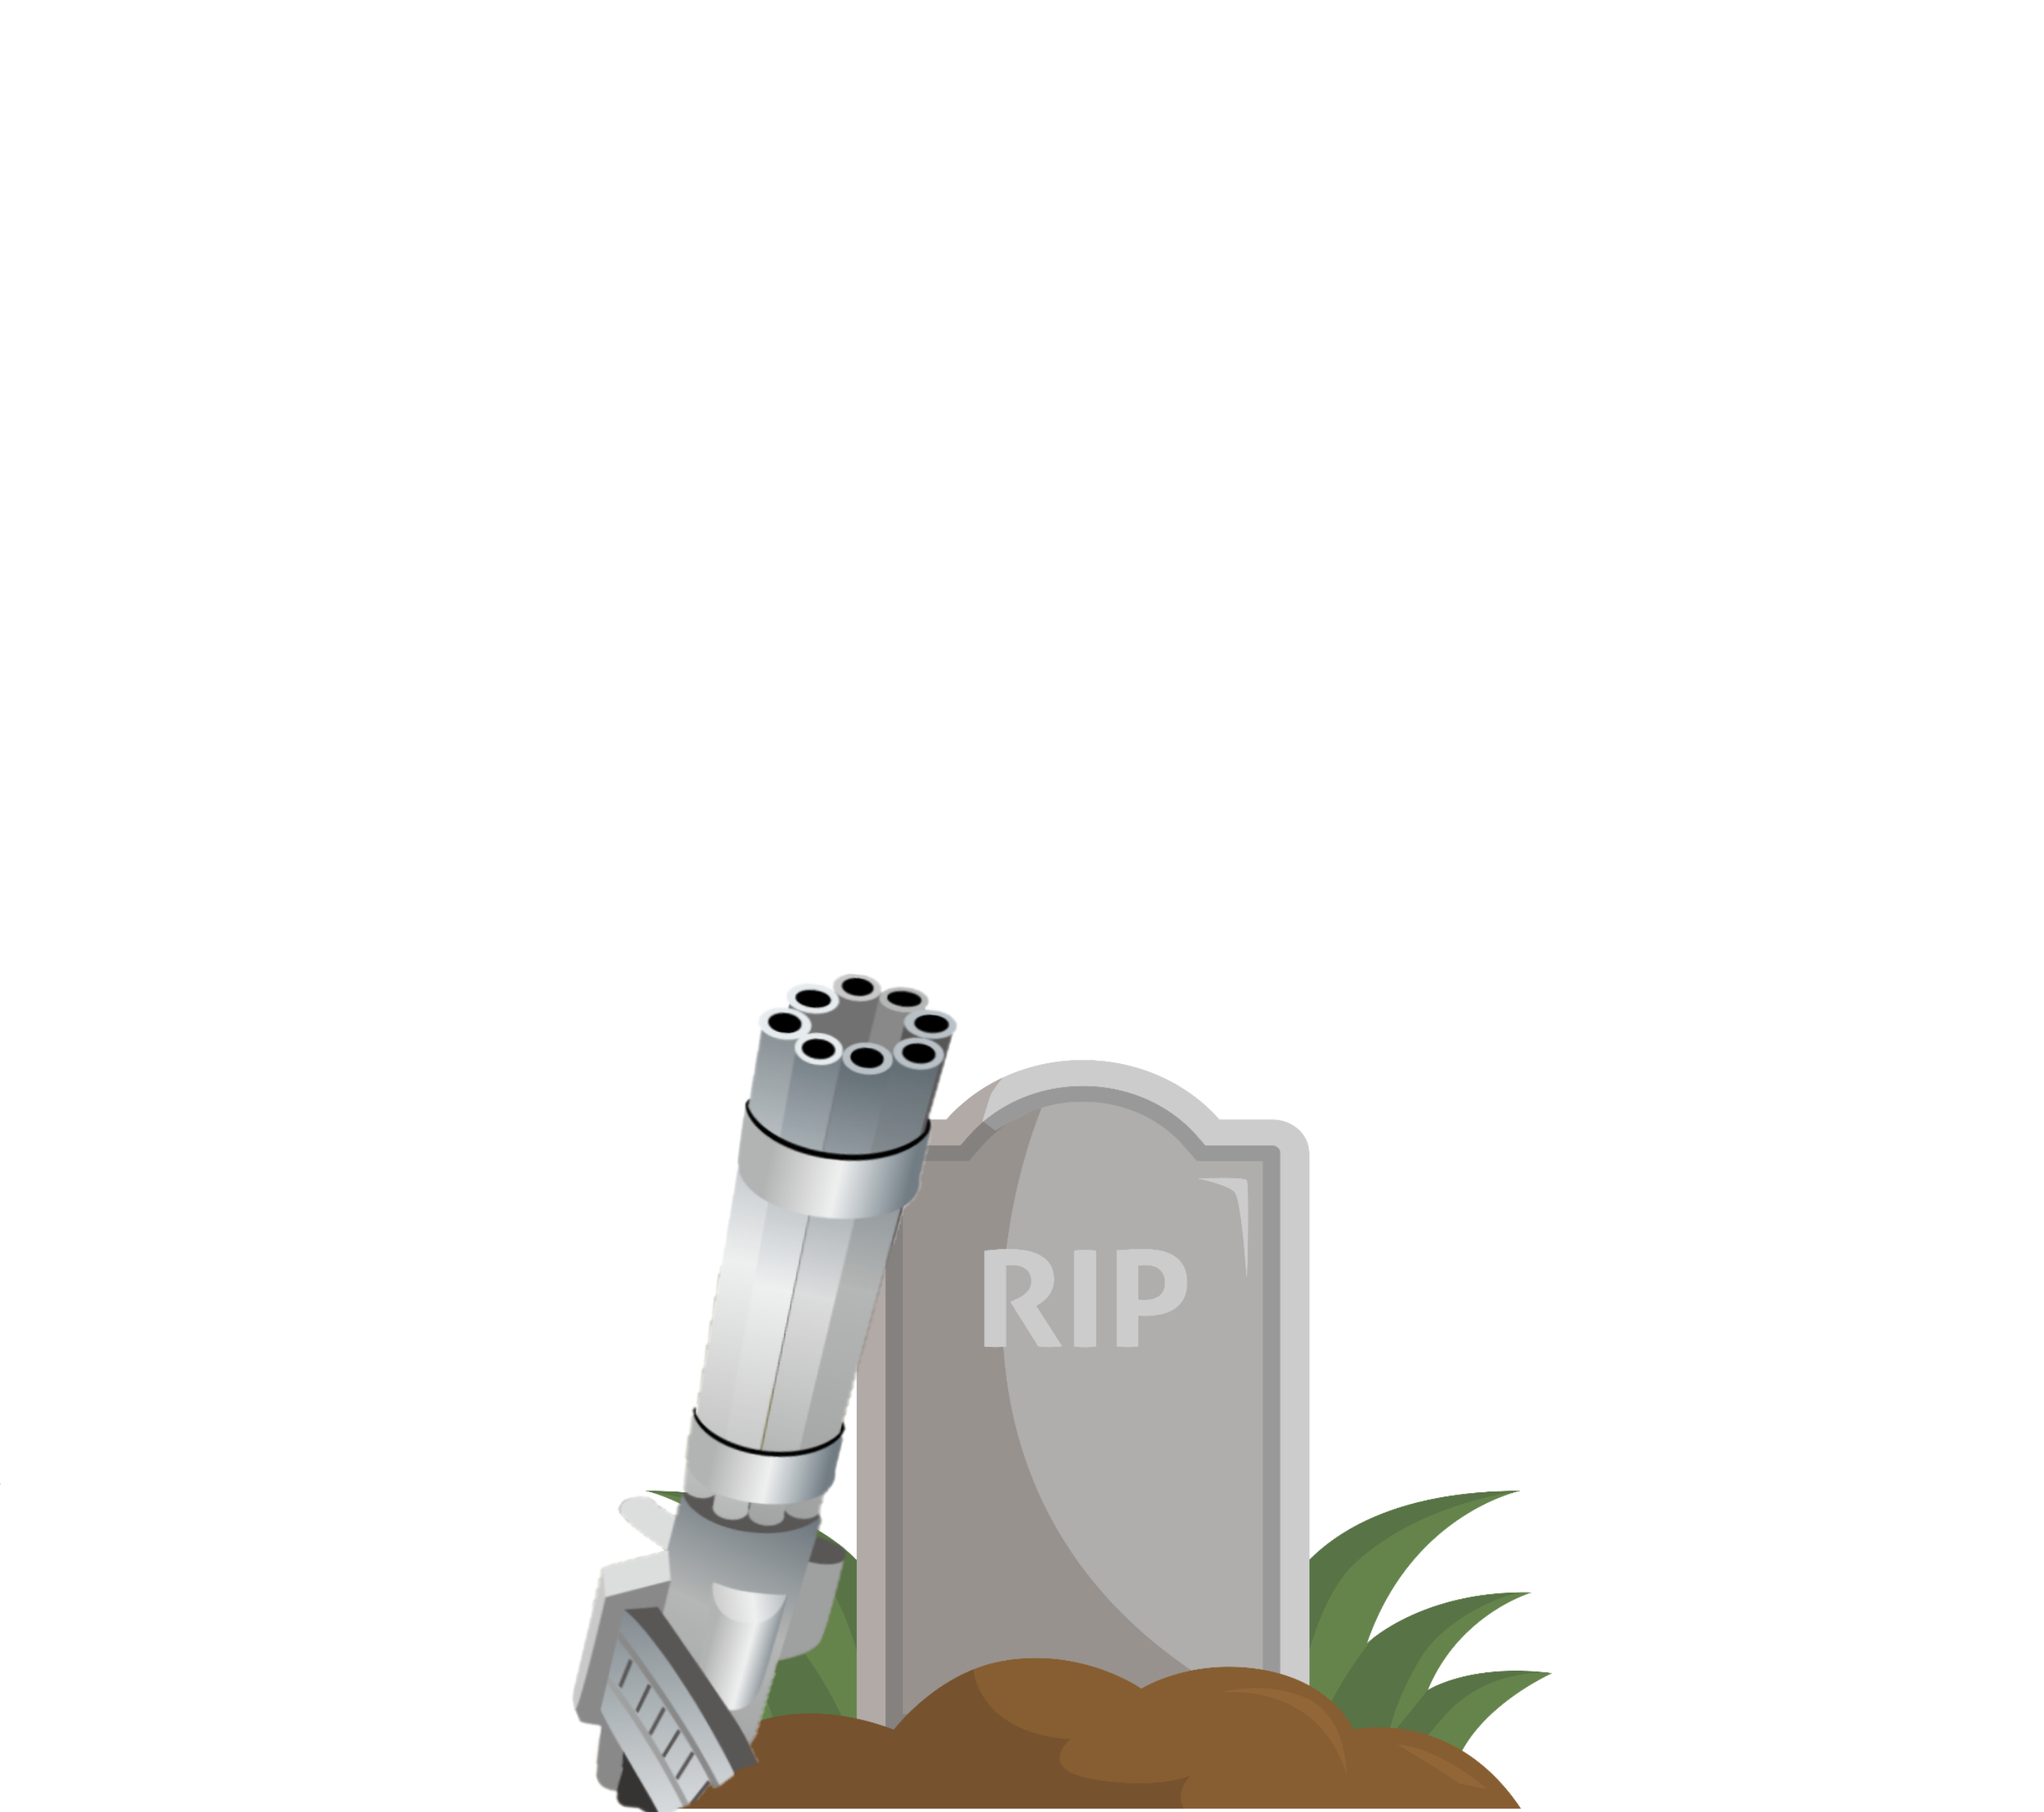
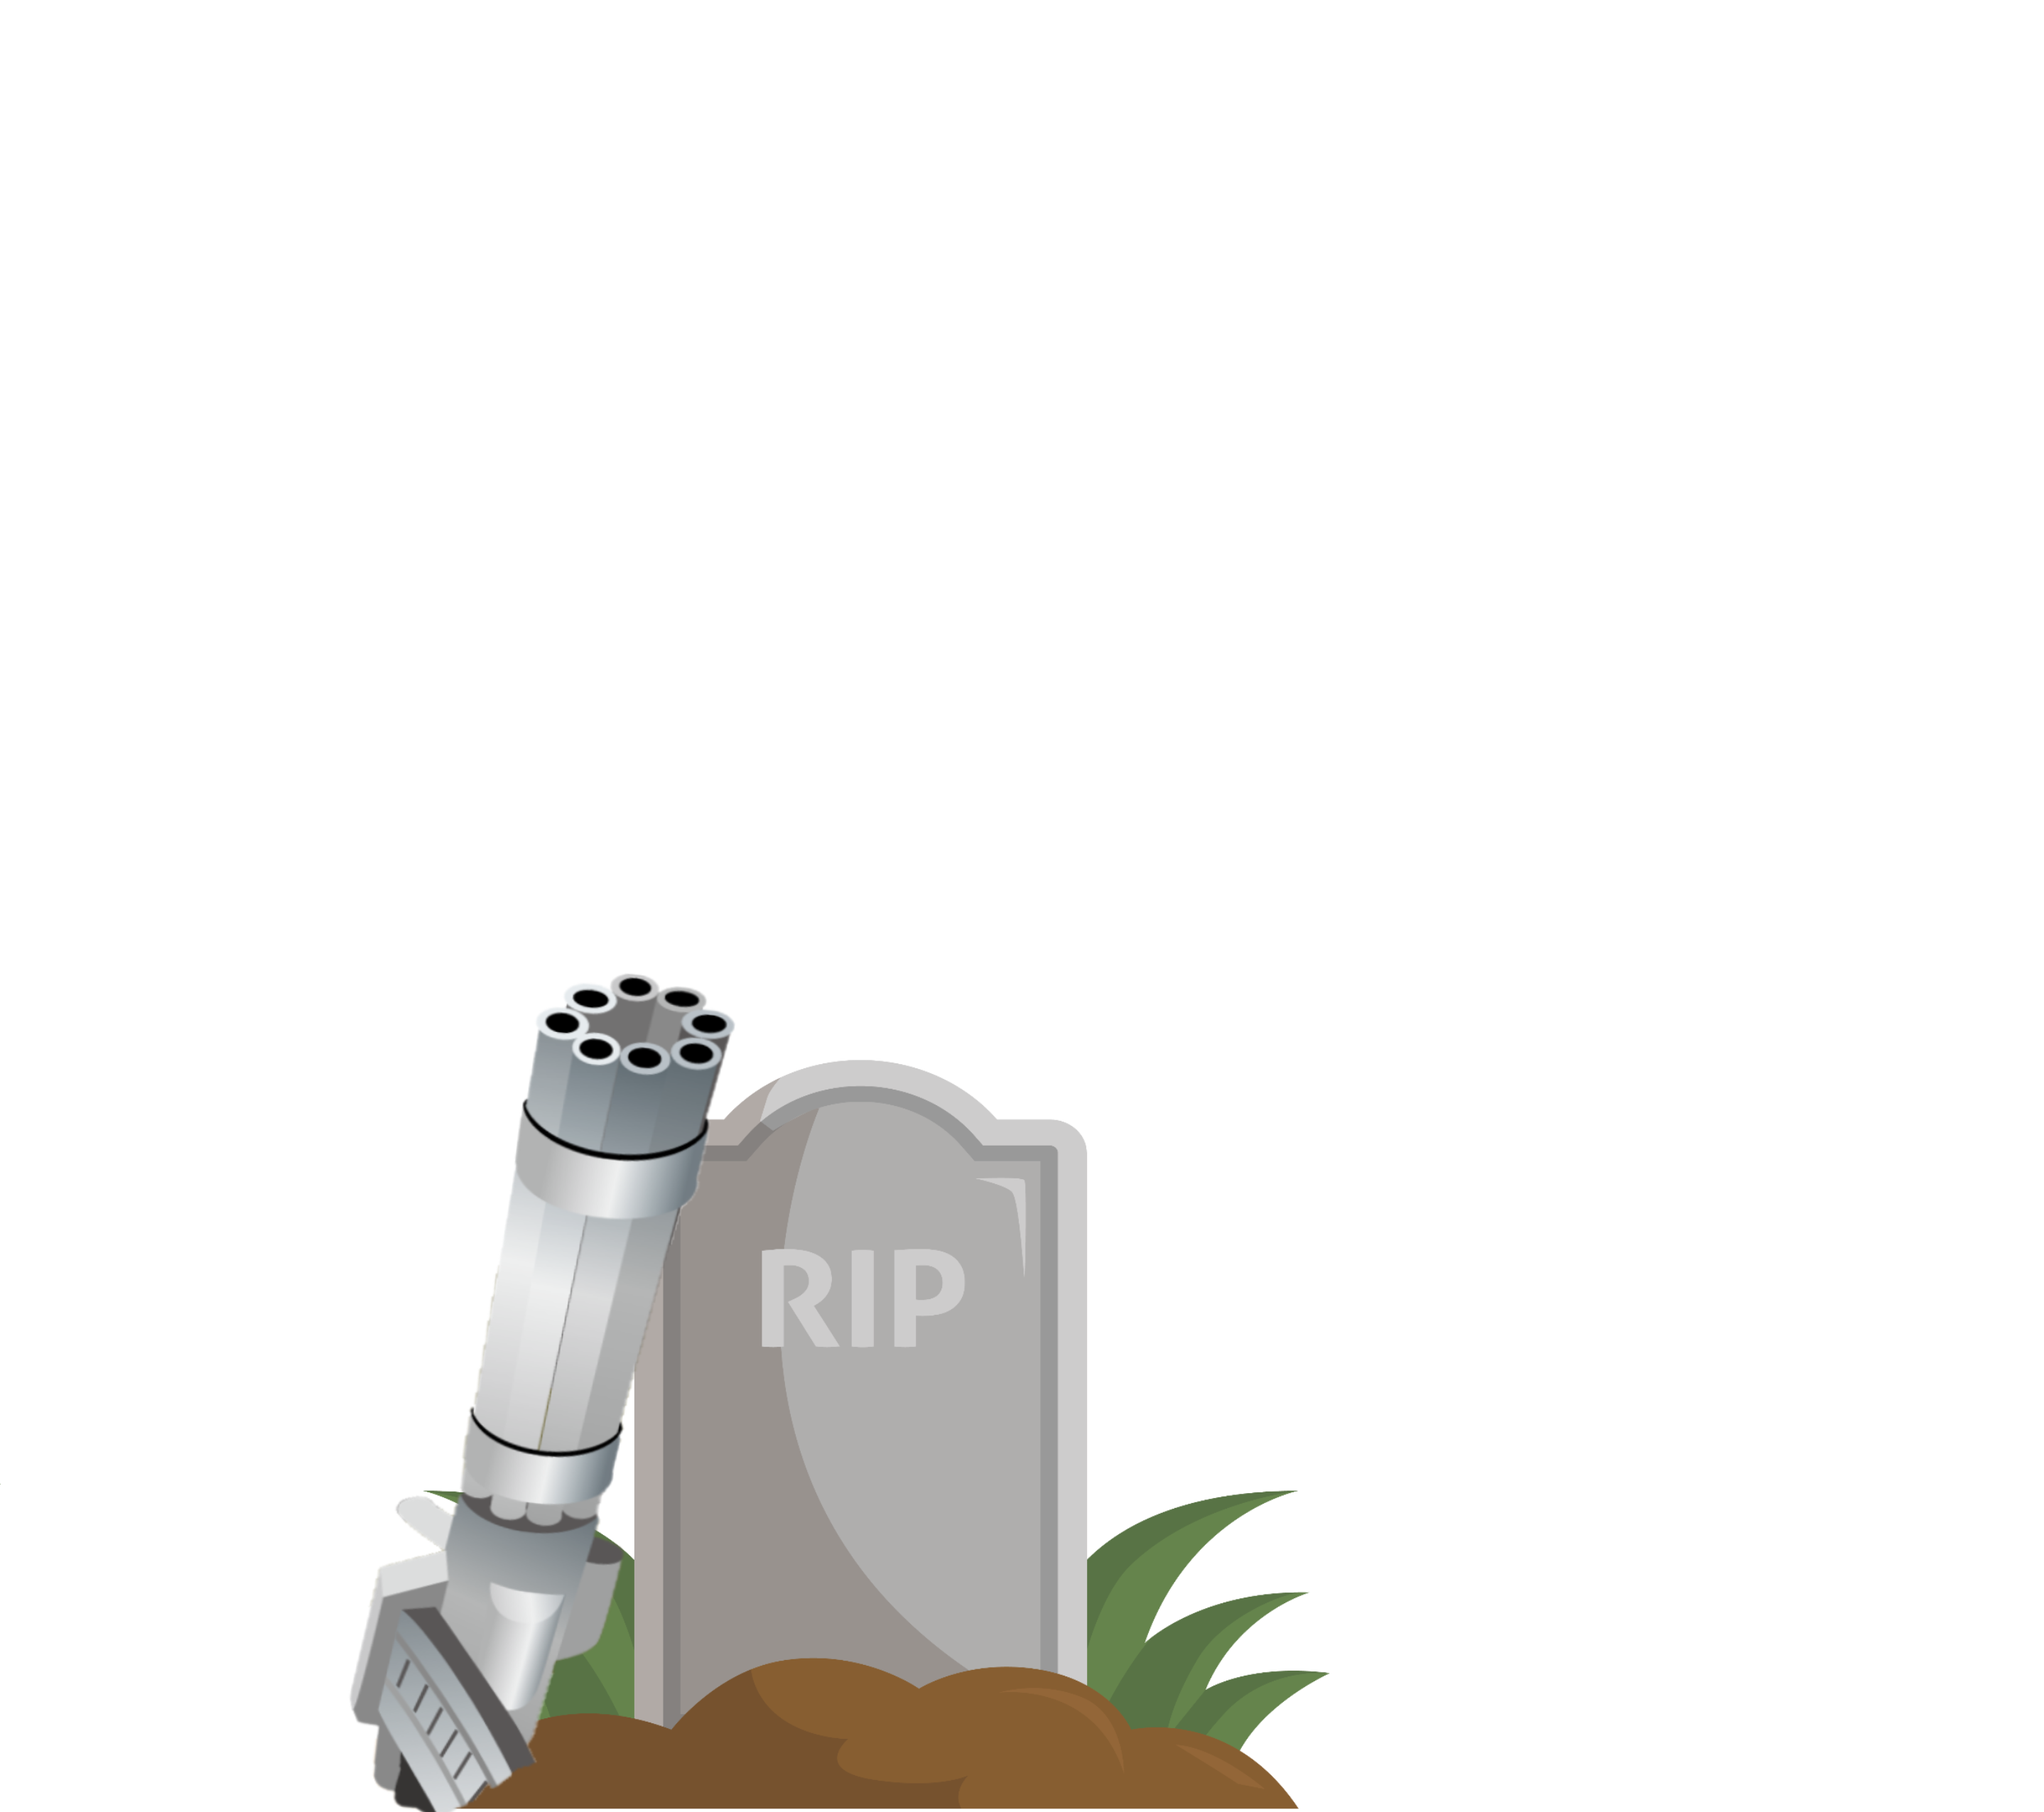
i have changed the background on the minigame page and i made it so it changes depending on your level

Changed region(s): [[0.1547, 0.5265, 0.7424, 1.0]]

diff --git a/javascript/game.js b/javascript/game.js
@@ -117,50 +117,62 @@ function checklvl() {
     if (player.level >= 25 && player.level < 50) {
         document.getElementById("rifle").innerHTML = "Rifle: Type-88";
         document.getElementById("rank").innerHTML = "Rank: Marksman";
+        background.src = "img/background2.png";
     }
     if (player.level >= 50 && player.level < 75) {
         document.getElementById("rifle").innerHTML = "Rifle: Fall";
         document.getElementById("rank").innerHTML = "Rank: Marksman Elite";
+        background.src = "img/background2.png";
     }
     if (player.level >= 75 && player.level < 100){
         document.getElementById("rifle").innerHTML = "Rifle: M39";
         document.getElementById("rank").innerHTML = "Rank: Marksman Sergeant";
+        background.src = "img/background2.png";
     }
     if (player.level >= 100 && player.level < 150) {
         document.getElementById("rifle").innerHTML = "Rifle: Scar-H";
         document.getElementById("rank").innerHTML = "Rank: Sniper";
+        background.src = "img/background3.png";
     }
     if (player.level >= 150 && player.level < 200){
         document.getElementById("rifle").innerHTML = "Rifle: SPG1";
         document.getElementById("rank").innerHTML = "Rank: Sniper Elite";
+        background.src = "img/background3.png";
     }
     if (player.level >= 200 && player.level < 250){
         document.getElementById("rifle").innerHTML = "Rifle: RSASS";
         document.getElementById("rank").innerHTML = "Rank: Sniper Sergeant";
+        background.src = "img/background3.png";
     }
     if (player.level >= 250 && player.level < 300) {
         document.getElementById("rifle").innerHTML = "Rifle: SVD";
         document.getElementById("rank").innerHTML = "Rank: Sharpshooter";
+        background.src = "img/background4.png";
     }
     if (player.level >= 300 && player.level < 350){
         document.getElementById("rifle").innerHTML = "Rifle: M110";
         document.getElementById("rank").innerHTML = "Rank: Sharpshooter Elite";
+        background.src = "img/background4.png";
     }
     if (player.level >= 350 && player.level < 400){
         document.getElementById("rifle").innerHTML = "Rifle: M2010";
         document.getElementById("rank").innerHTML = "Rank: Sharpshooter Sergeant";
+        background.src = "img/background4.png";
     }
     if (player.level >= 400 && player.level < 450){
         document.getElementById("rifle").innerHTML = "Rifle: Gol";
         document.getElementById("rank").innerHTML = "Rank: Spec-Ops Sniper";
+        background.src = "img/background5.png";
     }
     if (player.level >= 450 && player.level < 500){
         document.getElementById("rifle").innerHTML = "Rifle: AWM";
         document.getElementById("rank").innerHTML = "Rank: Spec-Ops Sharpshooter";
+        background.src = "img/background5.png";
     }
     if (player.level >= 500) {
         document.getElementById("rifle").innerHTML = "Rifle: M98B";
         document.getElementById("rank").innerHTML = "Rank: Deadshot";
+        background.src = "img/background6.png";
     }
 }
 

diff --git a/minigame.html b/minigame.html
@@ -60,7 +60,7 @@
     <div class="body-game">
         <div class="container-fluid nopadding">
             <div class="game-background">
-                <img src="img/background.png" class="background-img">
+                <img src="img/background.png" class="background-img" id="background">
             </div>
             <div class="enemy-stats">
                 <p class="stats underline">ENEMY</p>
